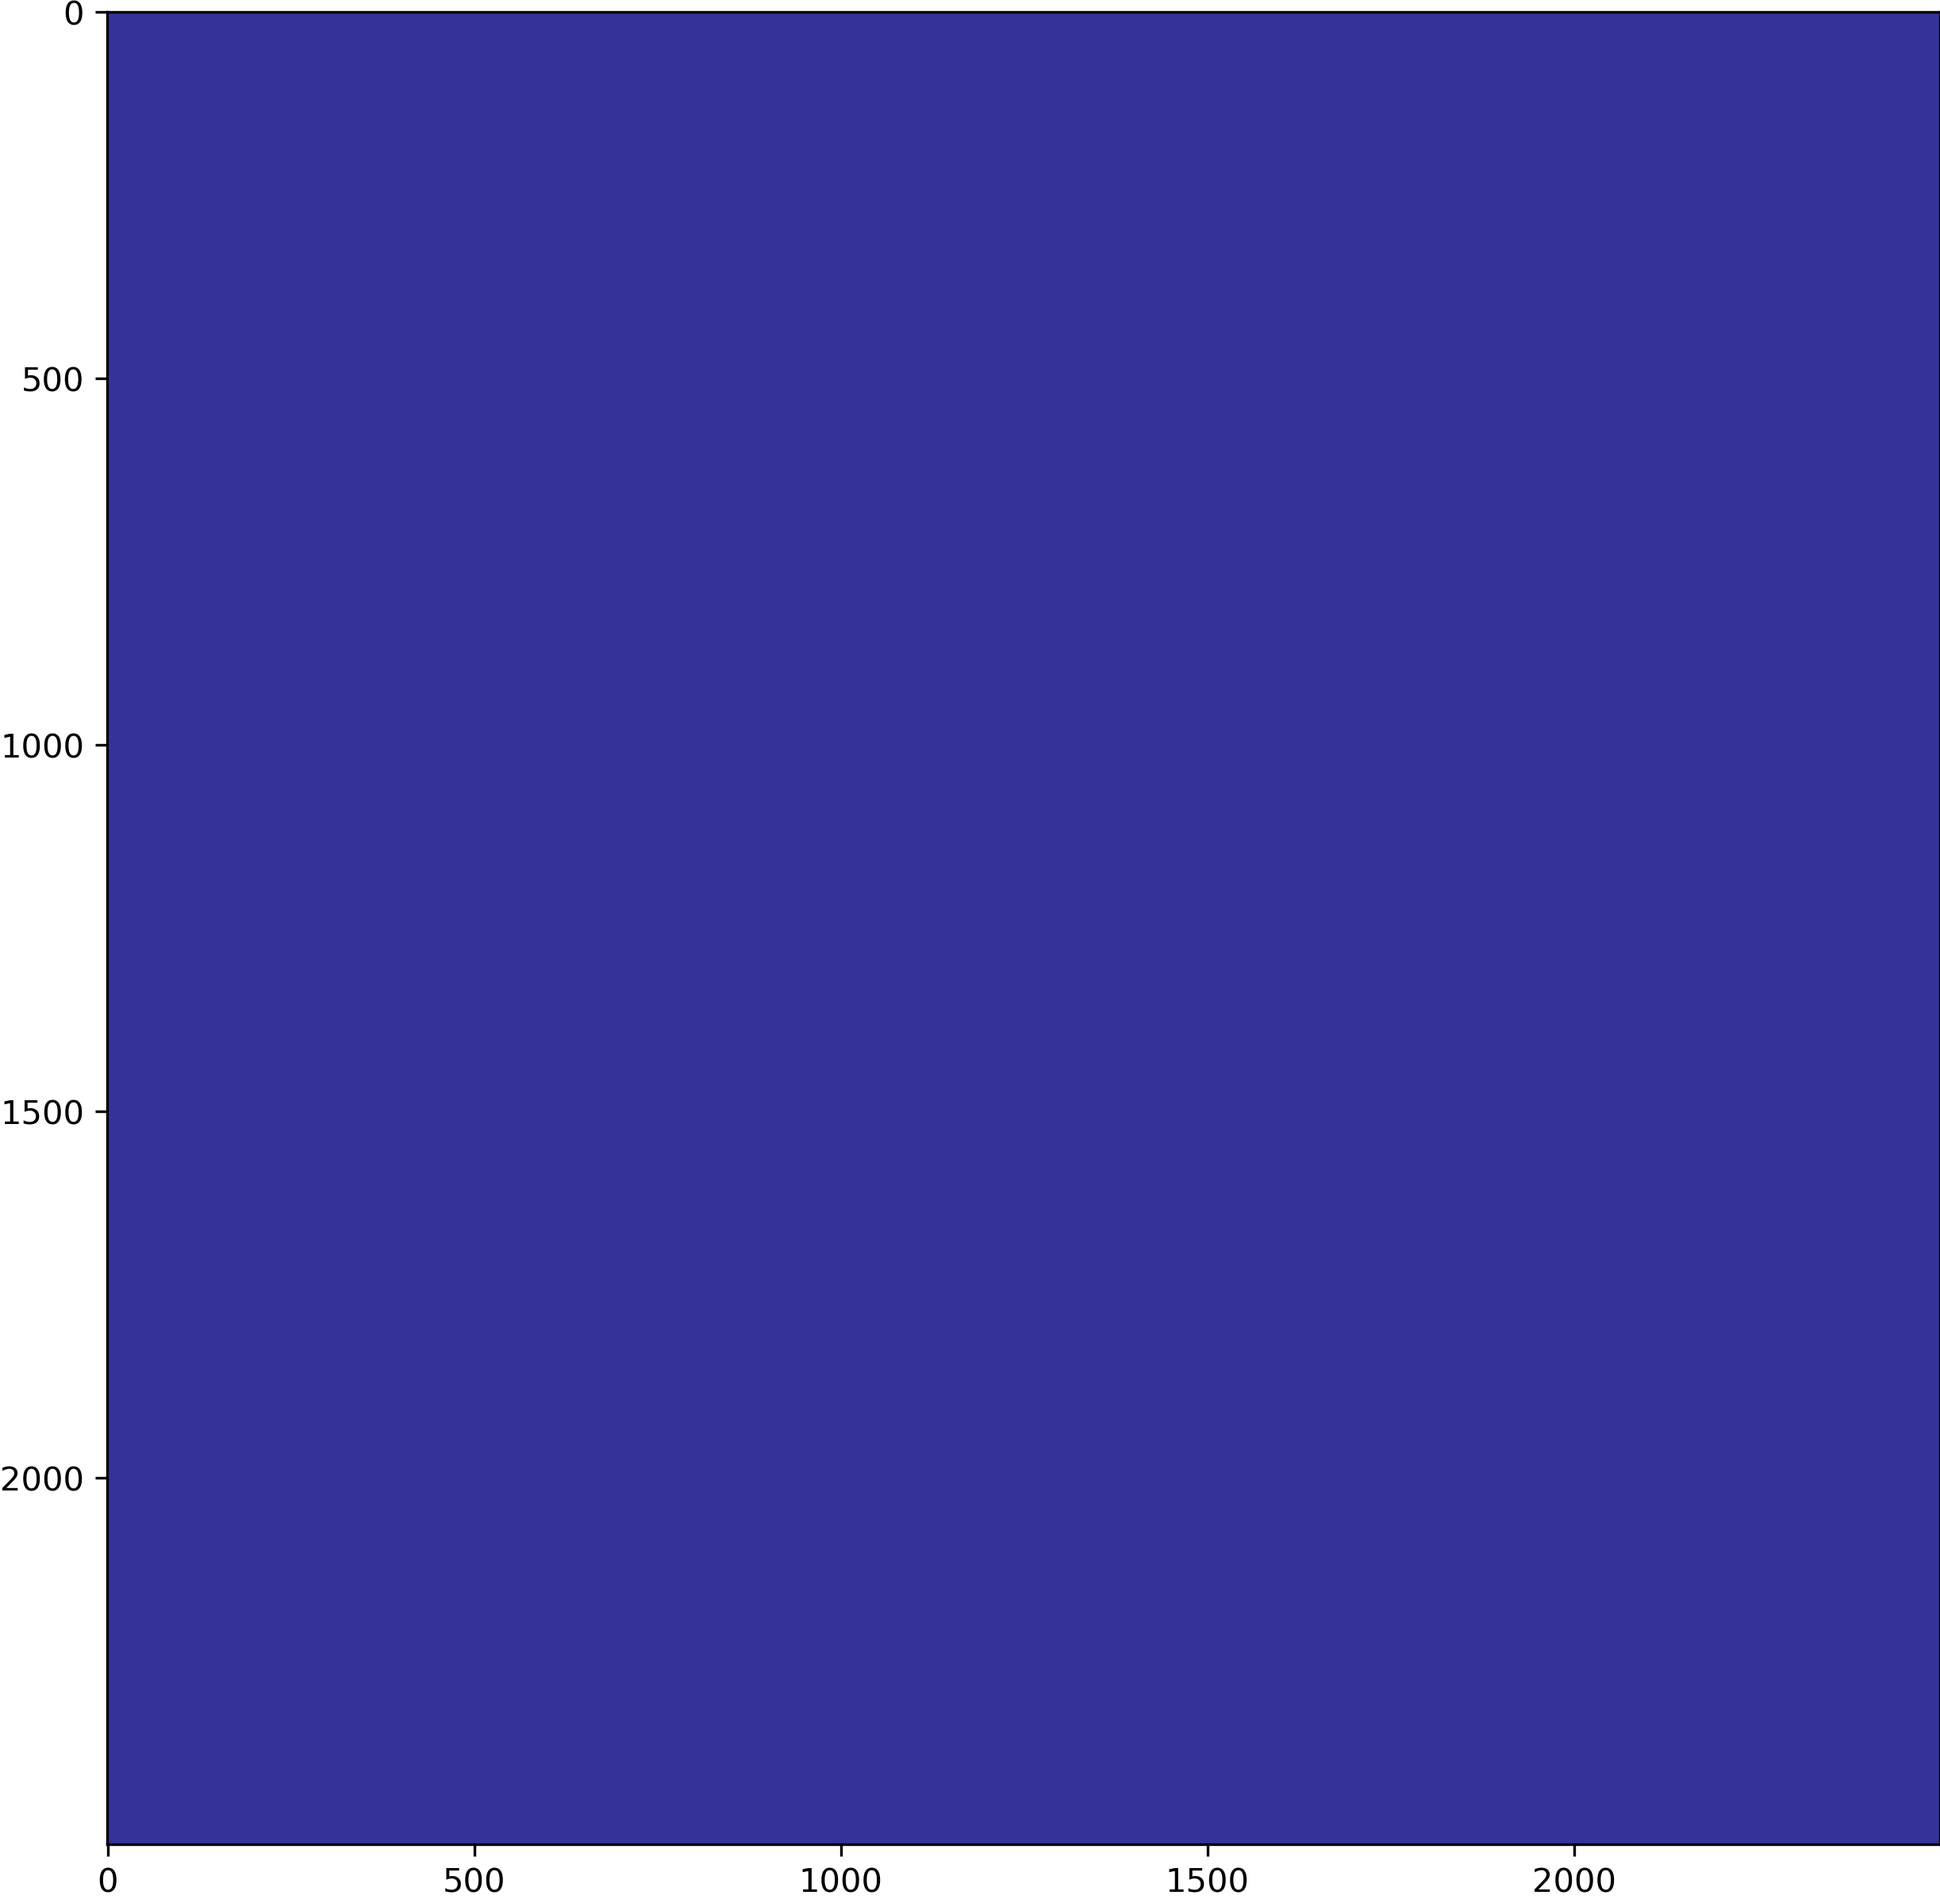
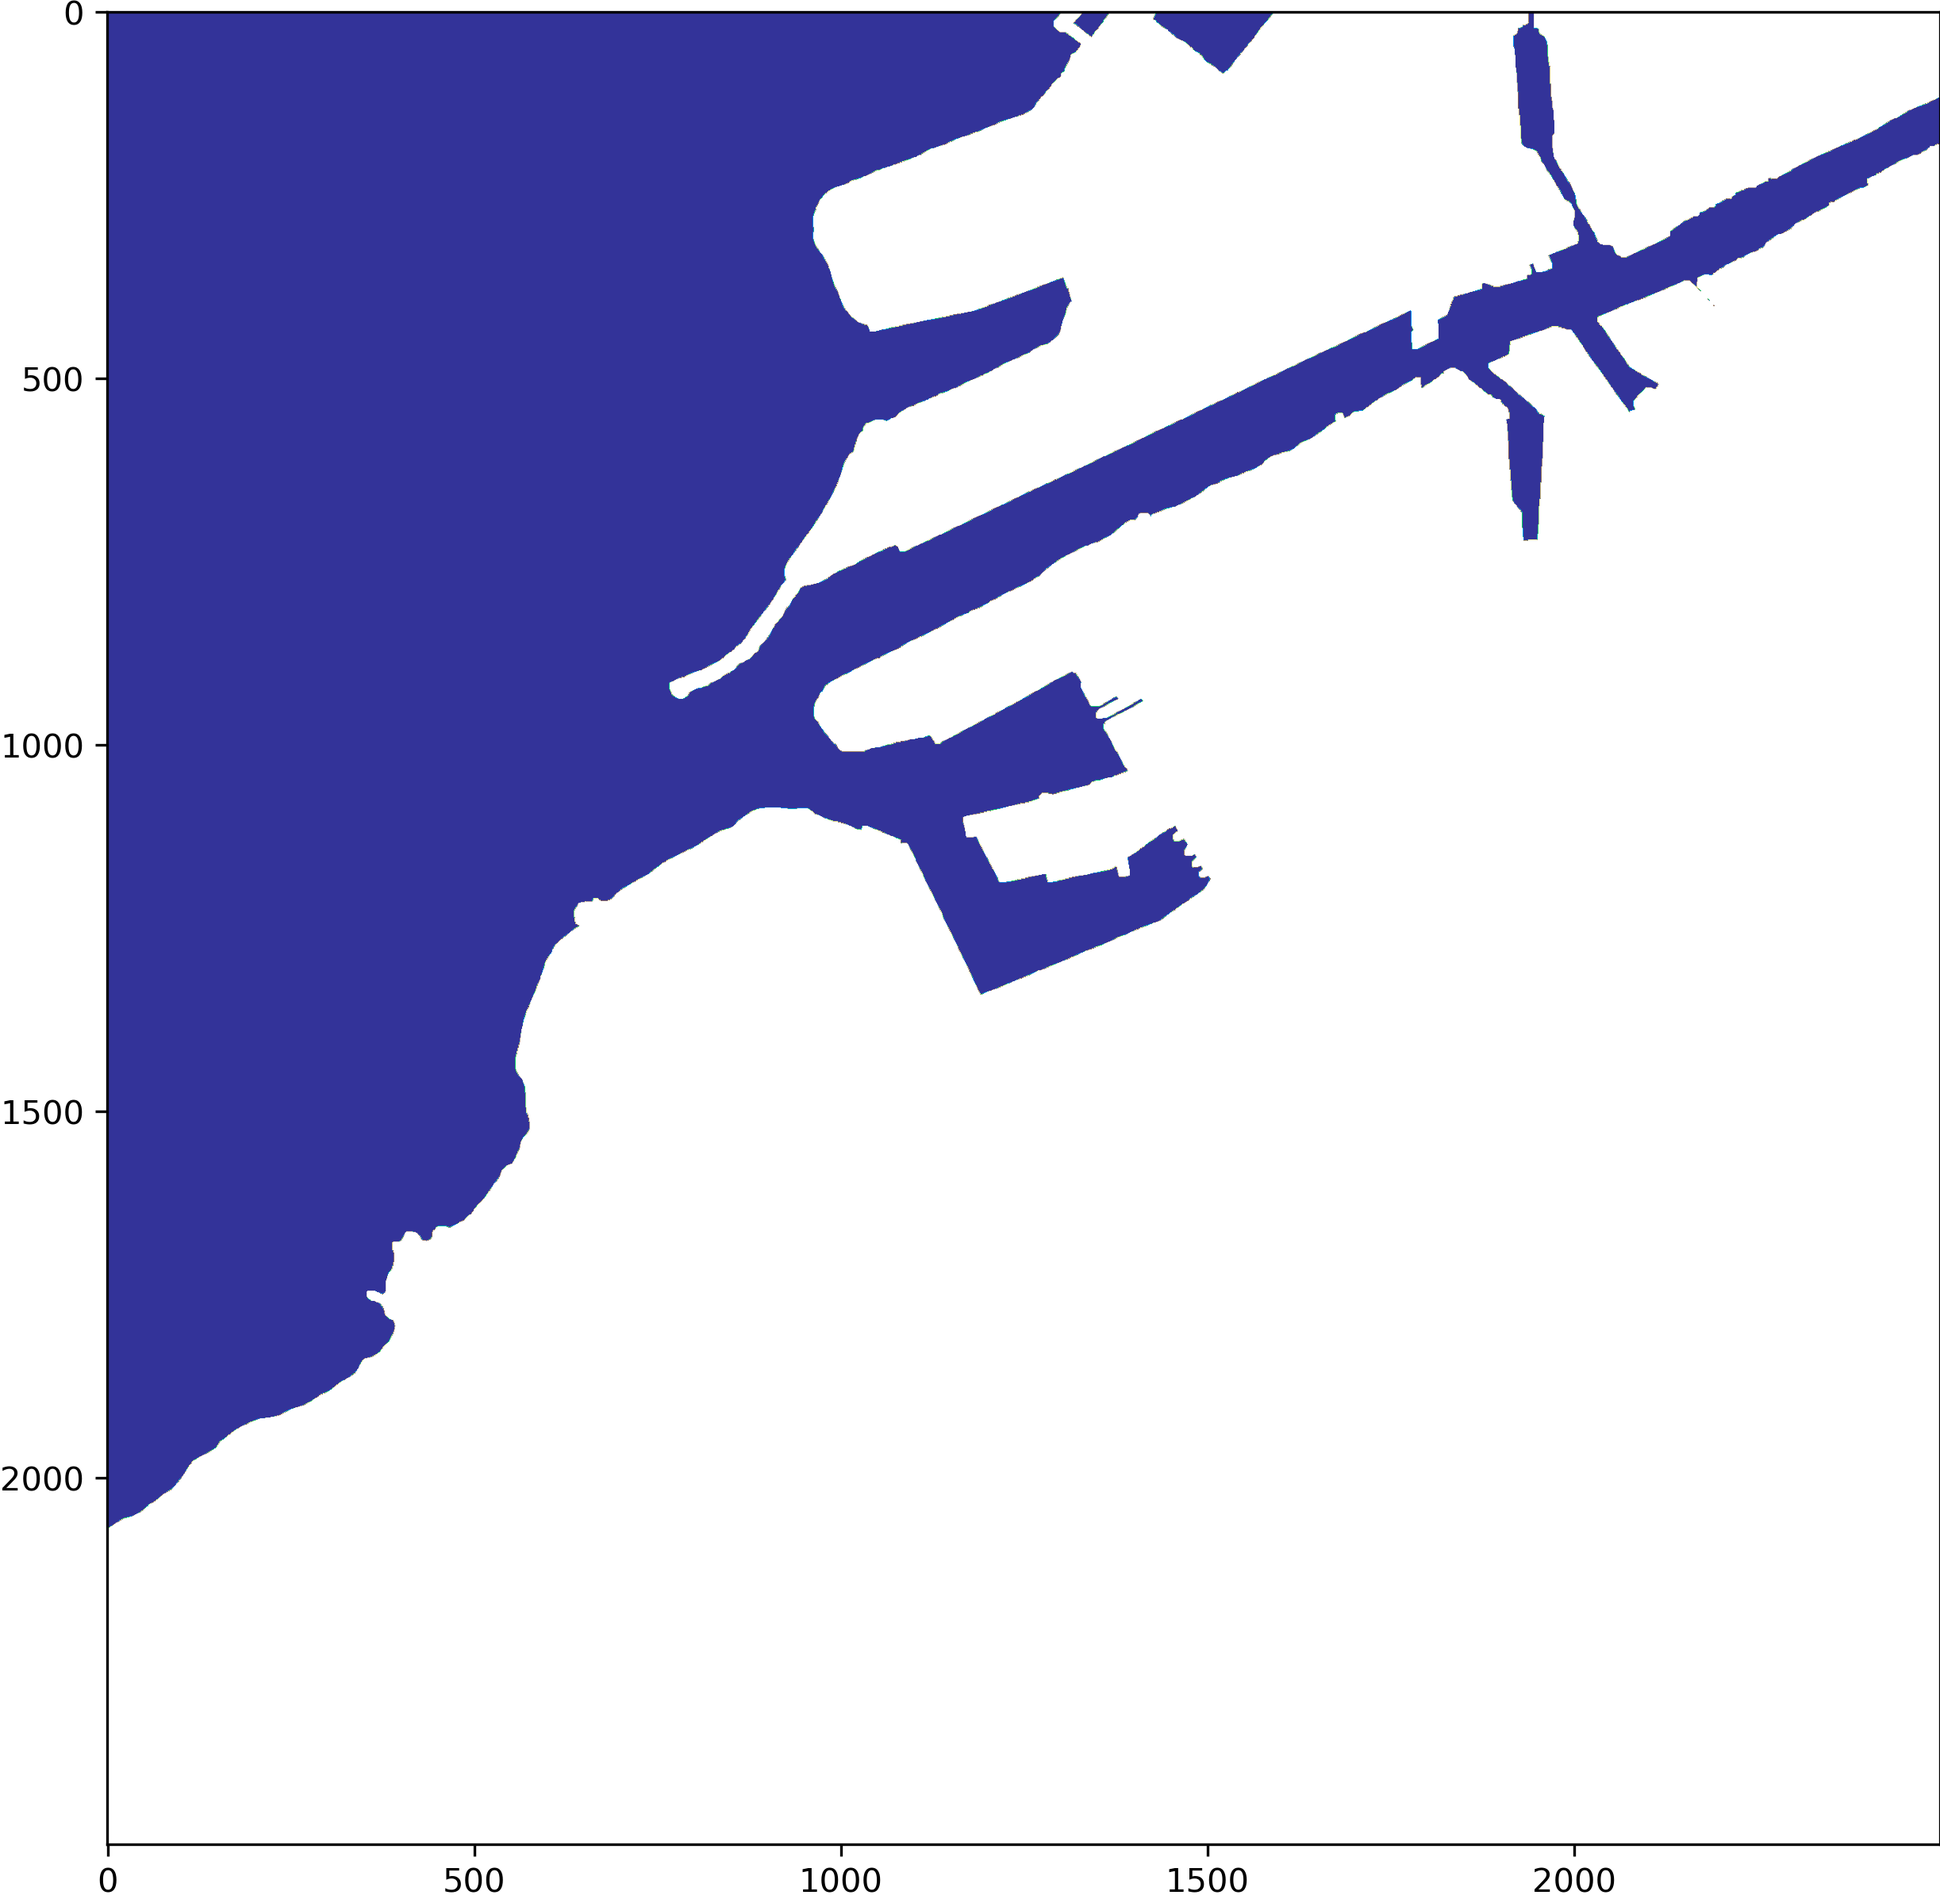
Occupancy grid works again, and I don't know why.

diff --git a/main.py b/main.py
@@ -65,8 +65,9 @@ if __name__ == '__main__':
 
             # Defining map size and center
             size   = [args.size_single, args.size_single]
-            center = [utm33_current_position[0] , utm33_current_position[1]] # Centered on current position
-            uf.configure_enc(setting_path, center=center, size=size) # Updating .yaml file
+            center =  [utm33_current_position[0] - size[0]/2, utm33_current_position[1] - size[1]/2] # Centered on current position
+            center_enc = [utm33_current_position[0] , utm33_current_position[1]] # Centered on current position
+            uf.configure_enc(setting_path, center=center_enc, size=size) # Updating .yaml file
 
             # Define pathplanning start/end (grid coordinates)           
             grid_current_position = cc.utm33_to_grid(utm33_current_position[0], utm33_current_position[1], size, center)
@@ -82,13 +83,7 @@ if __name__ == '__main__':
             end_coordinates   = (grid_home_location[0], grid_home_location[1])
 
             # Extracting map data using SeaCharts:
-
-            enc = ENC(config='map_settings.yaml')
-            enc.update()
-            enc.display.show()
-
-
-            mp.extract_map_data(mapdata_path, center)
+            mp.extract_map_data(mapdata_path, center, new_data=True)
             #polygons, polygons_coords = mp.prepare_map_polygons_coords(mapdata_path)
             #mp.map_visualization(polygons_coords, saveas='map_visualization')
 

diff --git a/src/map_preparation.py b/src/map_preparation.py
@@ -25,7 +25,8 @@ def extract_map_data(path, center, new_data=False):
     '''
       # ENC config
     enc = ENC(config='map_settings.yaml')
-    enc.update()
+    if new_data:
+        enc.update() # Updating enc
     algo_start = time.time()
     print('Map Function - Extracting map data.')
     # Land polygons
